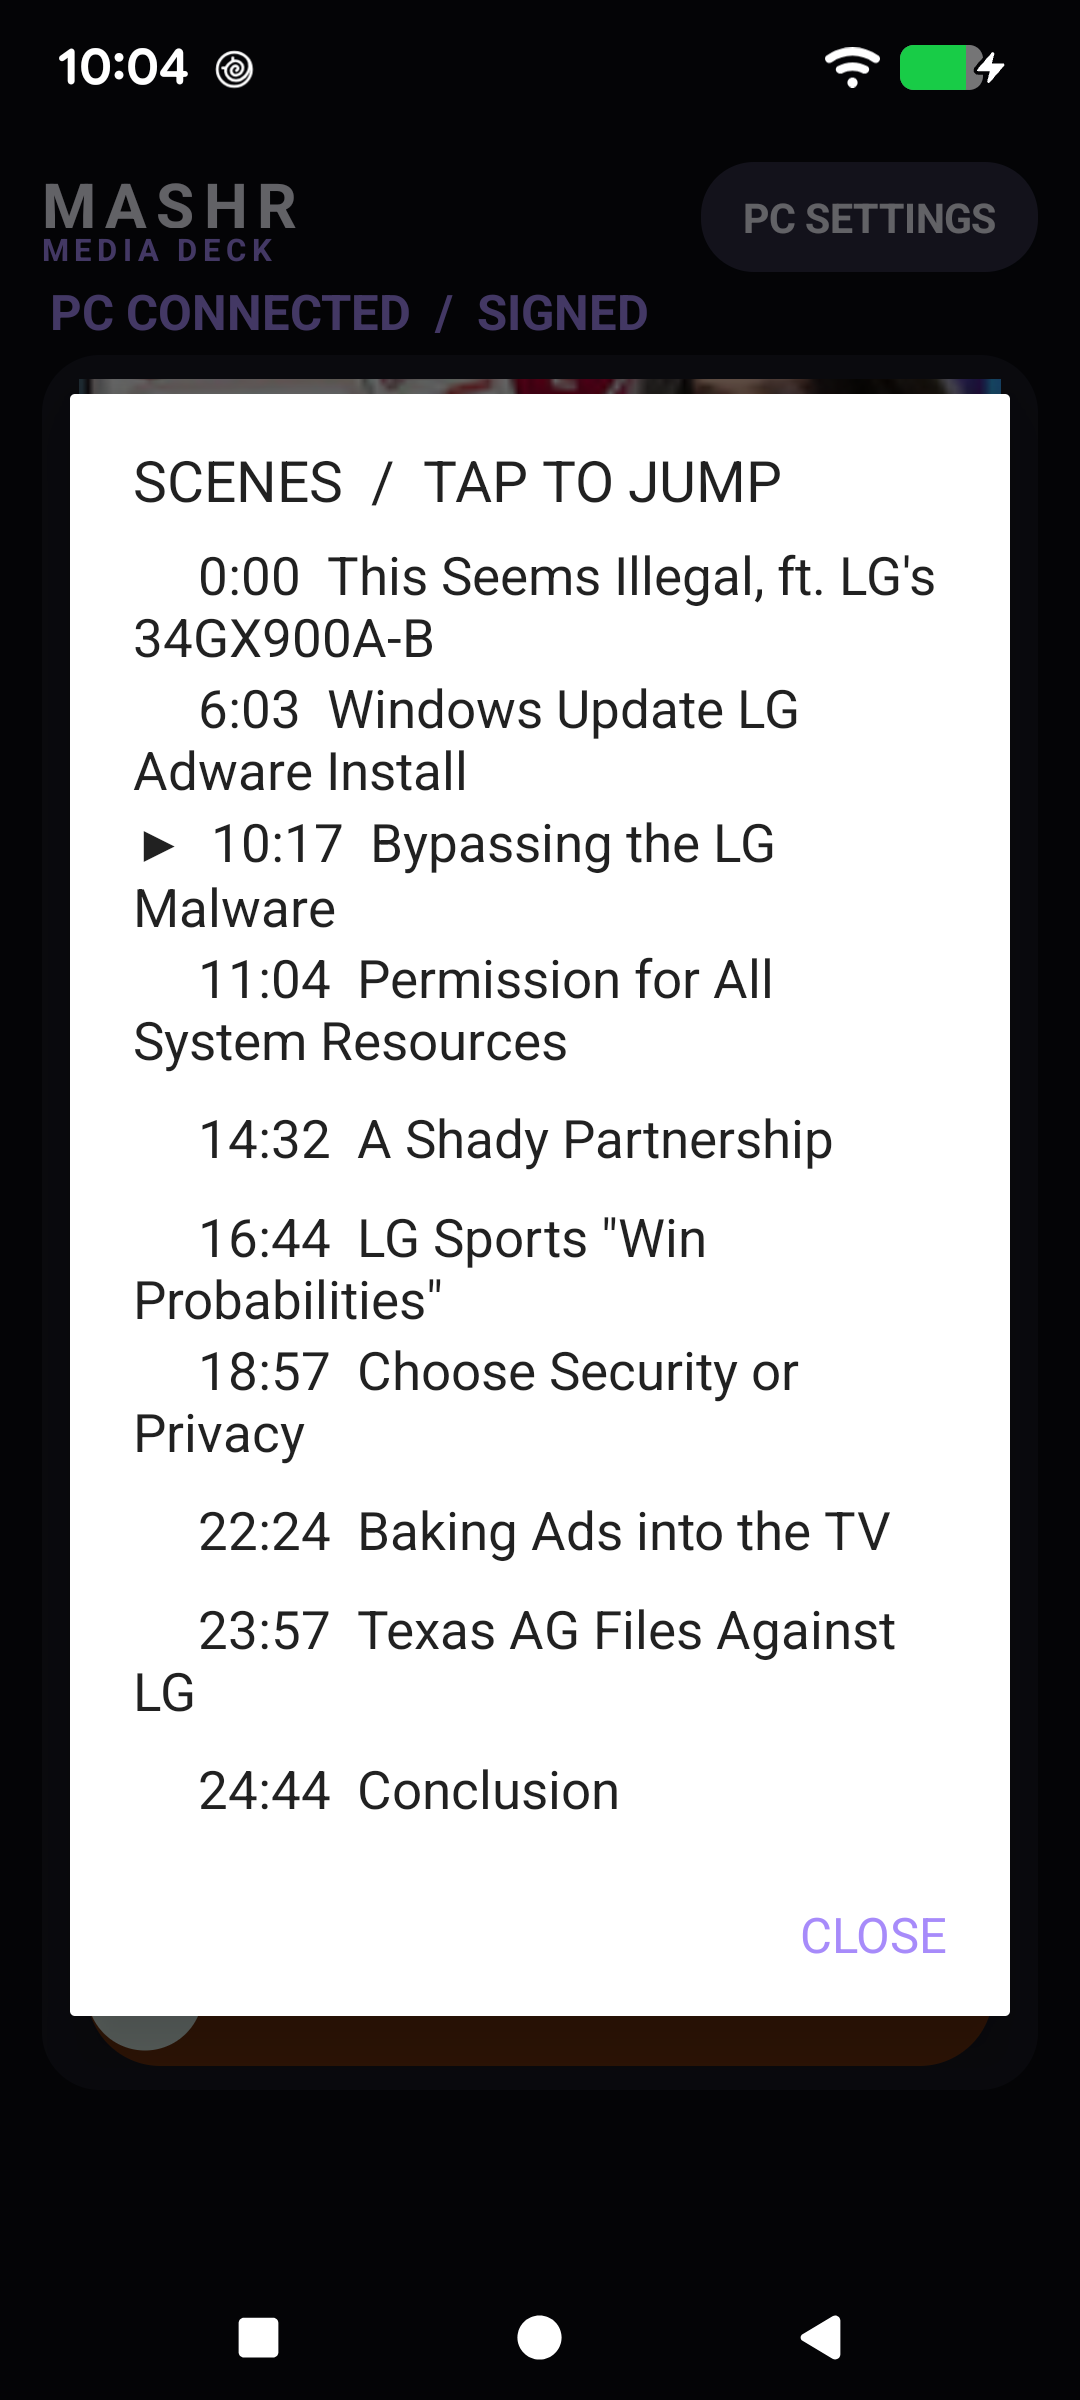
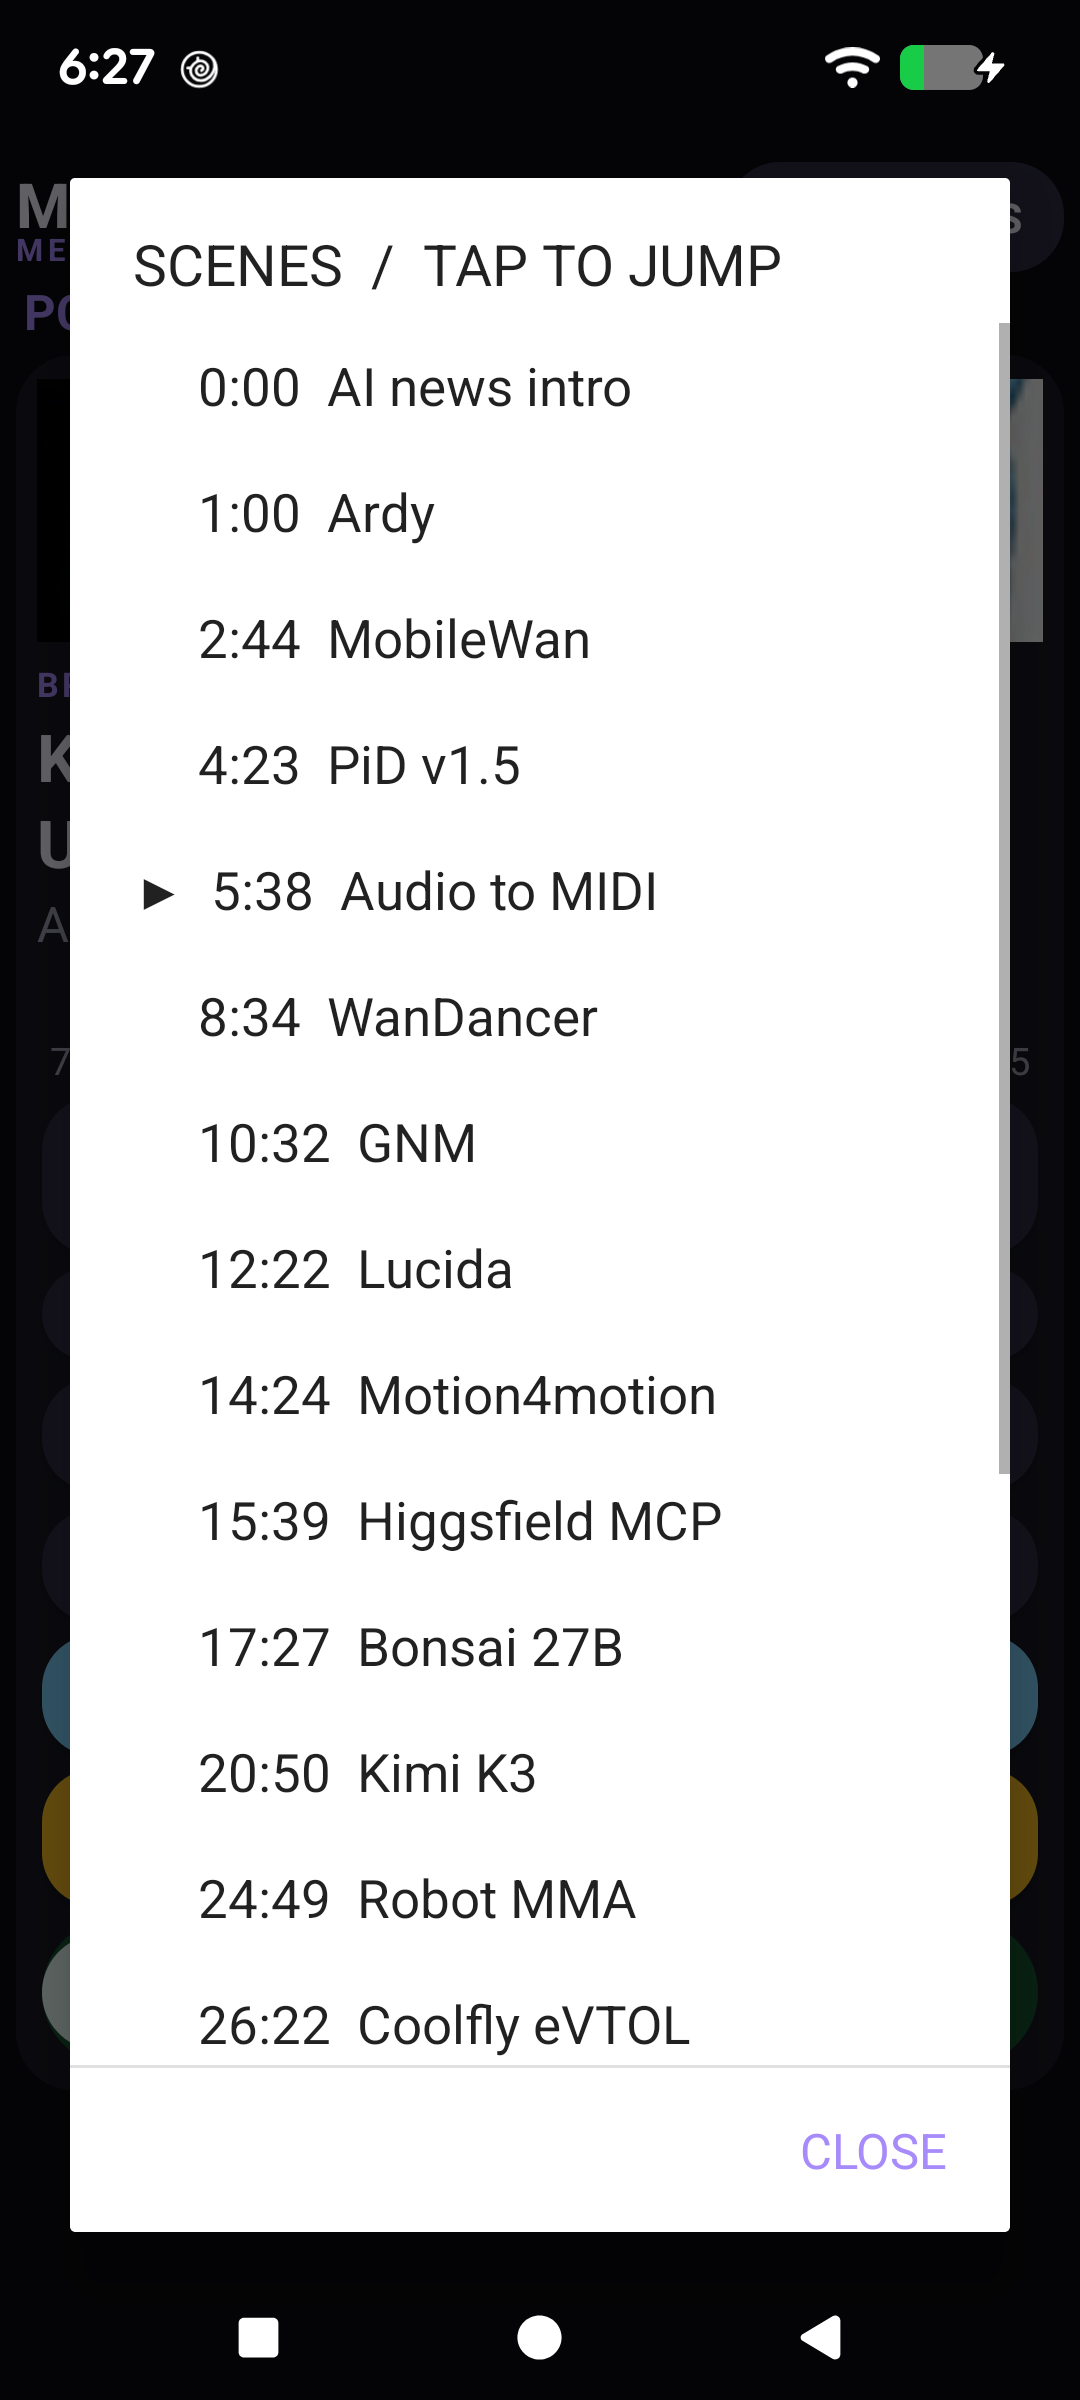
Widen Pixel 7 deck

diff --git a/app/src/main/java/com/mediadeck/remote/MainActivity.java b/app/src/main/java/com/mediadeck/remote/MainActivity.java
@@ -90,7 +90,7 @@ public final class MainActivity extends Activity {
         LinearLayout root=new LinearLayout(this);
         root.setOrientation(LinearLayout.VERTICAL);
         root.setBackgroundColor(BG);
-        final int side=dp(16),top=dp(10),bottom=dp(14);
+        final int side=dp(6),top=dp(10),bottom=dp(14);
         root.setPadding(side,top,side,bottom);
         root.setOnApplyWindowInsetsListener((v,insets)->{
             int insetTop,insetBottom;
@@ -124,7 +124,7 @@ public final class MainActivity extends Activity {
 
         LinearLayout card=new LinearLayout(this);
         card.setOrientation(LinearLayout.VERTICAL);
-        card.setPadding(dp(14),dp(9),dp(14),dp(9));
+        card.setPadding(dp(8),dp(9),dp(8),dp(9));
         card.setBackground(round(CARD,22));
         artwork=new ImageView(this);
         artwork.setScaleType(ImageView.ScaleType.CENTER_CROP);
@@ -228,7 +228,7 @@ public final class MainActivity extends Activity {
         moveScreen.setContentDescription("Move the selected PC media window to the next monitor");
         moveScreen.setOnClickListener(v->moveScreen());
         LinearLayout.LayoutParams moveLp=new LinearLayout.LayoutParams(-1,dp(46));
-        moveLp.setMargins(dp(3),dp(5),dp(3),0);
+        moveLp.setMargins(dp(2),dp(5),dp(2),0);
         card.addView(moveScreen,moveLp);
 
         altTab=largeAction("HOLD ALT + TAB  /  TAP PREV OR NEXT","alttab",13);
@@ -240,12 +240,12 @@ public final class MainActivity extends Activity {
             return true;
         });
         LinearLayout.LayoutParams altLp=new LinearLayout.LayoutParams(-1,dp(52));
-        altLp.setMargins(dp(3),dp(5),dp(3),0);
+        altLp.setMargins(dp(2),dp(5),dp(2),0);
         card.addView(altTab,altLp);
 
         replay=new SwipeReplayView(this::handleReplayGesture);
         LinearLayout.LayoutParams replayLp=new LinearLayout.LayoutParams(-1,dp(56));
-        replayLp.setMargins(dp(3),dp(5),dp(3),0);
+        replayLp.setMargins(dp(2),dp(5),dp(2),0);
         card.addView(replay,replayLp);
         root.addView(card);
         setContentView(root);
@@ -614,7 +614,7 @@ public final class MainActivity extends Activity {
     private String url(String path){return "http://"+base+":43821"+path;}
     private Button action(String label,String command){Button button=button(label);button.setOnClickListener(v->control(command));return button;}
     private Button largeAction(String label,String command,int size){Button button=action(label,command);button.setTextSize(size);button.setSingleLine(true);button.setPadding(dp(4),0,dp(4),0);return button;}
-    private void addWeighted(LinearLayout row,View view){LinearLayout.LayoutParams params=new LinearLayout.LayoutParams(0,-1,1);params.setMargins(dp(3),0,dp(3),0);row.addView(view,params);}
+    private void addWeighted(LinearLayout row,View view){LinearLayout.LayoutParams params=new LinearLayout.LayoutParams(0,-1,1);params.setMargins(dp(2),0,dp(2),0);row.addView(view,params);}
     private String formatTime(long millis){long total=Math.max(0,millis/1000),hours=total/3600,minutes=(total%3600)/60,seconds=total%60;return hours>0?String.format(Locale.US,"%d:%02d:%02d",hours,minutes,seconds):String.format(Locale.US,"%d:%02d",minutes,seconds);}
     private String friendlySource(String value){String lower=value.toLowerCase(Locale.US);if(lower.contains("vlc"))return "VLC / PC";if(lower.contains("brave"))return "BRAVE / PC";if(lower.contains("chrome"))return "CHROME / PC";if(lower.contains("spotify"))return "SPOTIFY / PC";return "PC MEDIA";}
     private TextView text(String value,int size,int color,boolean bold){TextView view=new TextView(this);view.setText(value);view.setTextSize(size);view.setTextColor(color);view.setTypeface(Typeface.DEFAULT,bold?Typeface.BOLD:Typeface.NORMAL);view.setLineSpacing(0,1.1f);return view;}

diff --git a/README.md b/README.md
@@ -40,7 +40,7 @@ Every screen below is a real Pixel 7 capture from the extension-free core.
 <table>
   <tr>
     <td width="50%" valign="top">
-      <img src="docs/images/pixel7-youtube-scenes.png" alt="YouTube artwork, progress, and ten chapter markers on MASHR Media Deck"><br>
+      <img src="docs/images/pixel7-youtube-scenes.png" alt="YouTube artwork, progress, and creator chapter markers on MASHR Media Deck"><br>
       <strong>YouTube, already understood.</strong><br>
       Artwork, title, creator, live time, and creator chapters appear without a browser add-on.
     </td>

diff --git a/CHANGELOG.md b/CHANGELOG.md
@@ -10,6 +10,10 @@ All notable MASHR Media Deck changes are recorded here.
 - Made the extension boundary explicit: the complete core deck is extension-free; only the optional related-video grid uses the helper.
 - Updated press copy and social artwork around the extension-free core experience.
 
+### Changed
+
+- Reduced the outer deck gutter, card inset, and control-row spacing so the Pixel 7 layout uses more of the available screen width while retaining safe rounded edges.
+
 ## 1.4.0 — 2026-07-17
 
 ### Added

diff --git a/docs/SCREENSHOTS.md b/docs/SCREENSHOTS.md
@@ -4,7 +4,7 @@ These are real Pixel 7 captures. YouTube artwork, live progress, chapter markers
 
 ## Extension-free YouTube deck
 
-![YouTube artwork, progress, and ten chapter markers](images/pixel7-youtube-scenes.png)
+![YouTube artwork, progress, and creator chapter markers](images/pixel7-youtube-scenes.png)
 
 The companion identifies the selected YouTube watch page and turns creator timestamps into cyan progress markers. No browser extension, YouTube login, or cloud service is involved.
 

diff --git a/docs/PRESS-KIT.md b/docs/PRESS-KIT.md
@@ -50,7 +50,7 @@ The core deck needs no browser extension. YouTube artwork, metadata, live progre
 
 ![YouTube chapters on the main deck](images/pixel7-youtube-scenes.png)
 
-**Caption:** MASHR finds artwork, live time, and ten creator chapters from the selected YouTube session without a browser extension.
+**Caption:** MASHR finds artwork, live time, and creator chapters from the selected YouTube session without a browser extension.
 
 ### Scene picker
 
